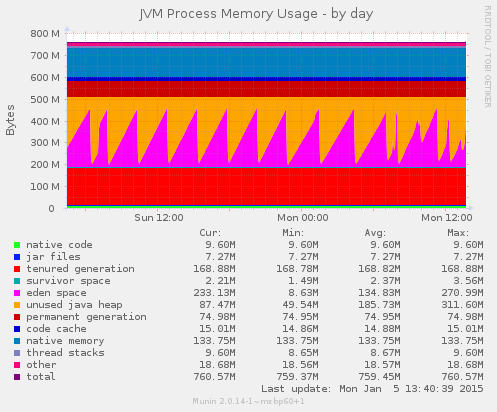
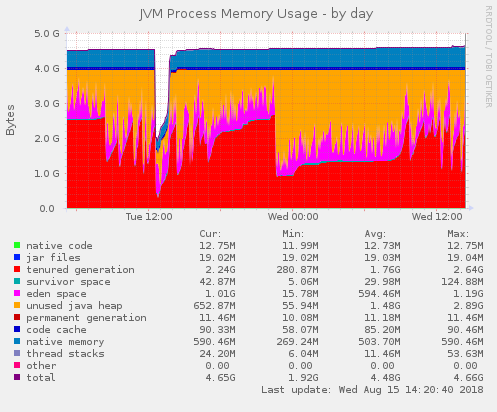
doc: refresh munin example graphs with explanation
The graphs in the documentation were quite old already. With the
addition of the database graphs, the documentation needs to be
refreshed.

I used the opportunity to also add some documentation to the individual
example graphs.

diff --git a/doc/munin.md b/doc/munin.md
@@ -2,7 +2,7 @@
 
 [Munin](http://munin-monitoring.org/) is 'a networked resource monitoring tool that can help analyze resource trends and "what just happened to kill our performance?" problems.'
 
-The Mendix m2ee-tools software has built in munin support.
+The Mendix m2ee-tools software ships with a built-in munin plugin.
 
 ## Mendix munin plugin
 
@@ -33,23 +33,103 @@ In order for the plugin to be able to read this information, the plugin must run
 
 ## Examples
 
-Here's some examples of graphs this plugin will show.
+Here's some examples of graphs this plugin will show. Besides these graphs, it's of course very useful to also have the standard set of munin graphs displaying operating system memory and cpu usage, and disk I/O usage to correlate with.
 
-![JVM Heap Memory](images/mxruntime_jvmheap_example-day.png)
+The example application is a quite busy application which mainly handles interactive usage from end users in the browser.
+
+### JVM Heap Memory Usage
+
+![JVM Heap Memory Usage](images/mxruntime_jvmheap_example-day.png)
+
+The JVM Heap is the memory space in which Java objects live. Java objects can be created manually in a Java action in a Mendix application, but every object that is handled in a microflow also translates to a Java object under the hood. New objects are created in __eden space__, and if they live long enough, the JVM garbage collector moves them via the __survivor space__ to the __tenured generation__.
+
+In this graph, we can see the JVM garbage collector do its work. For example, at tuesday arond 10:45 PM, we can see a garbage collection happening in the 'tenured generation'. The result shows that of the 2.6GiB of memory, there was actually 900MiB still in use, and the rest of the memory has been cleaned up to be reused. Besides this, there are many small garbage collections in the eden space happening all the time.
+
+### JVM Process Memory
 
 ![JVM Process Memory](images/mxruntime_jvm_process_memory_example-day.png)
 
-![Requests](images/mxruntime_requests_example-week.png)
+The JVM Process Memory is the total size of the JVM process, as seen from the operating system memory perspective. Besides the object heap, which we saw in the previous graph, there's overhead of actual JVM code itself, program code of the Mendix Runtime and extra libraries used. Also visible is __native memory__, which are extra segments of raw memory that can be allocated by java libraries.
 
-![Sessions](images/mxruntime_sessions_example-week.png)
+Note that when the application is restarted, we see the actual memory usage of the process drop and grow again, when the JVM Heap starts being used again. The previous JVM Heap graph always shows the maximum possible size for convenience reasons.
 
-![Object Cache](images/mxruntime_cache_example-week.png)
+### Webserver Thread pool
 
-![Database Queries](images/mxruntime_connectionbus_example-week.png)
+![Jetty Threadpool](images/m2eeserver_threadpool_example-day.png)
 
-![Jetty Threadpool](images/m2eeserver_threadpool_example-week.png)
+This graph shows the thread pool that handles incoming HTTP connections to the Mendix Runtime process.
+
+Apparently, at around 2 PM there was a spike in the amount of concurrent external requests that were handled. Afterwards, the amount of idle threads slowly decreases again.
+
+### Total amount of JVM threads
 
 ![JVM Threads](images/mxruntime_threads_example-day.png)
+
+This is the total amount of threads that lives in the JVM process. The amount of threads roughly corresponds to the amount of currently handled external requests (retrieving and committing objects by the browser client), together with microflows started from an external request, a web service call, or started by a scheduled event. The `show_all_thread_stack_traces` command on the interactive m2ee command line will show details about all these threads for debugging.
+
+In this graph, we see a few huge spikes just after 1 PM and 2 PM. Apparently these running actions were the result of external requests to the application, since we see the same pattern in the previous graph of webserver threads.
+
+### Webserver requests
+
+![Requests](images/mxruntime_requests_example-day.png)
+
+The requests graph lists the amount of incoming HTTP requests to the application, split per endpoint. For example, the __xas__ endpoint handles queries from the browser client to retrieve data or execute a microflow when clicking a button. The __ws__ handles XML web service requests, etc.
+
+In this graph we see that the requests that caused the amount of threads to spike were requests that were actually originating from a user doing things in the web client.
+
+### Amount of logged in users
+
+![Sessions](images/mxruntime_sessions_example-day.png)
+
+A Mendix application has user accounts which are created in the application. This graph shows the total amount of __named users__ which exist in the application, as well as the amount of logged in __named user sessions__, and logged in __anonymous user sessions__.
+
+In the graph we can see that this application probably does not allow anonymous temporary user accounts to exist, and only allows existing registered users to log in. During the day, there's a fair amount of users interacting with the application.
+
+### Object Cache
+
+![Object Cache](images/mxruntime_cache_example-day.png)
+
+The Object Cache graph shows the amount of objects that are kept in the memory of the runtime (and also live in the Java Heap memory space that we saw above). Mendix versions before 7 used this object cache to keep track of objects while they were being edited in the web client or manipulated in mircoflows. In the interactive m2ee program, statistics for this cache can be shown with the `show_cache_statistics` command.
+
+Since the example application is using Mendix 7, the graph lists zero objects in the cache.
+
+### Amount of database queries executed
+
+![Database Queries](images/mxruntime_connectionbus_example-day.png)
+
+The Mendix Runtime keeps track of the amount of __select__, __insert__, __update__ and __delete__ queries which are sent to the database, while doing object retrieval and committing changes.
+
+In this example graph, we see that the application is doing lookups in the database quite heavily, compared to the amount of changes done. The end users are probably clicking around through different complex screens all the time. Also, XPath retrieve operations from the web client may result in multiple different select queries being fired off to the database.
+
+### PostgreSQL database size
+
+![PostgreSQL database size](images/mxruntime_pg_table_index_size_example-day.png)
+
+The database size graph shows the total size of the database on disk, split in actual data (__tables__) and __indexes__. This amount of allocated disk space might also contain freed up space fragments that are available for reuse after processing update and delete queries.
+
+(This graph is only visible when using a PostgreSQL database)
+
+### PostreSQL Connections
+
+![PostreSQL Connections](images/mxruntime_pg_stat_activity_example-day.png)
+
+The connection statistics show us how many connections are currently opened to the database. __Active__ connections are executing a database query right now. Connections that are __idle in transaction__ are likely longer running microflows that have a database transaction open, but are not currently executing a database activity. A transaction shown as __aborted__ is being cleaned up after being interrupted because of a problem. The __total amount__ of open connections as seen by PostgreSQL also includes the connection running the query to retrieve the monitoring data and database backup (dump) operations. The Mendix Runtime __limit__ is the upper limit on amount of open connections for the Mendix Runtime connection pooling.
+
+When database connections are quickly opened and closed, they result in new idle connections which are left behind. If there are no new transactions immediately requiring a connection, the amount of idle connections in the connection pool decreases slowly. When the graph shows an amount of idle connections, but no active or idle transactions, we know that the application behaviour is very spikey, pushing up the number of open connections for a very short time in between the measurements done by the monitoring system.
+
+The connection amounts are directly read from PostgreSQL, so the connection that is used separately for looking up the statistics is always also counted as active connection.
+
+In this graph, we can see that the spike in external requests caused a huge explosion of concurrent database queries, leading to high spikes in open database connections.
+
+(This graph is only visible when using a PostgreSQL database)
+
+### PostgreSQL updated tuples
+
+![PostgreSQL updated tuples](images/mxruntime_pg_stat_tuples_example-day.png)
+
+This graph might look similar to the one displaying insert, update and delete queries done. However, different update or delete query might cause a different amount of actual database table rows (called tuples in PostgreSQL language) to be touched.
+
+(This graph is only visible when using a PostgreSQL database)
 
 - - -
 
